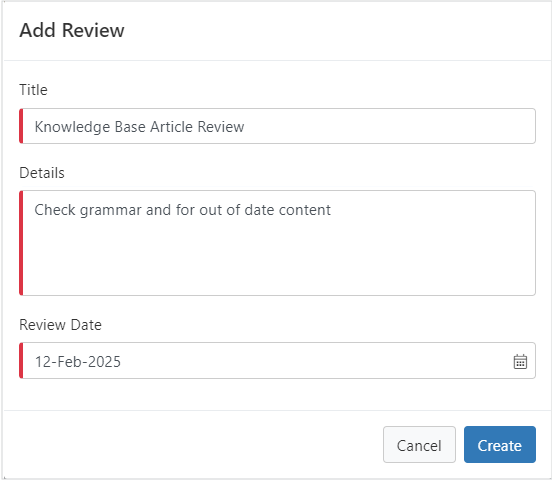
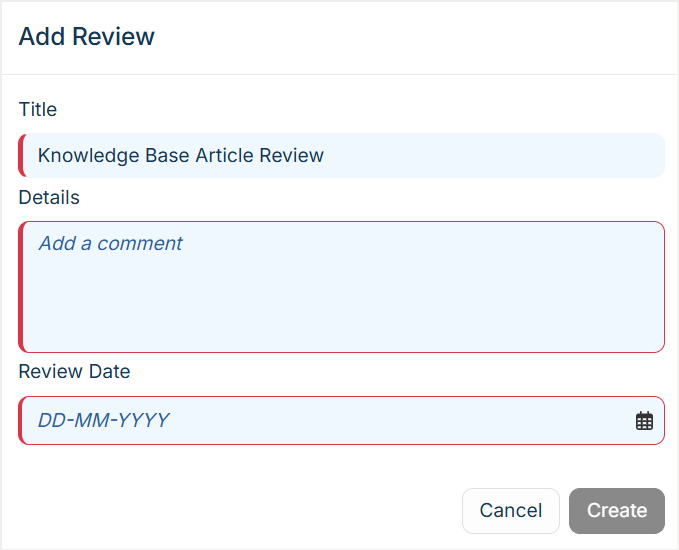
Article Review page
* Updated images.
* Grammar corrections.

diff --git a/servicemanager-user-guide/knowledge/knowledge-bases/articles/reviews.md b/servicemanager-user-guide/knowledge/knowledge-bases/articles/reviews.md
@@ -1,6 +1,6 @@
 # Reviews
 
-Reviews provide a way for knowledge base managers and contributors to schedule activities on each article. These can be used as simple reminders to visit an article to check if it is still valid, if any updates are needed, or to check the [statistics and feedback](/servicemanager-user-guide/knowledge/knowledge-bases/articles/statistics) on the article to understand how effective the article has been.
+Reviews provide a way for knowledge base managers and contributors to schedule activities on each article. These can be used as simple reminders to visit an article to check if it is still valid, if any updates are needed, or to check the [statistics and feedback](/servicemanager-user-guide/knowledge/knowledge-bases/articles/statistics) on the article to understand how effective it has been.
 
 ![Article Reviews](/_books/servicemanager-user-guide/knowledge/images/review-list.png)
 
@@ -15,12 +15,12 @@ Reviews provide a way for knowledge base managers and contributors to schedule a
     ![Add Review](/_books/servicemanager-user-guide/knowledge/images/add-review.png)
 
 :::tip
-The review is scheduled as an all-day activity on the chosen date.  Once created, the activity can be edited to select a specific time on that date.
+The review is scheduled as an all-day activity on the chosen date. Once created, the activity can be edited to select a specific time on that date.
 :::
 
 ## Viewing reviews
 
-Once a review has been added to an article, it is added to the Review List for that article.  You will likely want to also view this alongside your other activities. The review activities can also be seen in the My Activities pop-out panel and the My Activities view.
+Once a review has been added to an article, it is added to the Review List for that article. You will likely also want to view this alongside your other activities. The review activities can also be seen in the My Activities pop-out panel and the My Activities view.
 
 ### My Activities pop-out panel
 
@@ -32,11 +32,11 @@ Using activities for reviews provides a way to manage your work along with other
 
 ### My Activities
 
-The My Activities view is a central location for all your activities.  This includes your Knowledge reviews.
+The My Activities view is a central location for all your activities. This includes your Knowledge reviews.
 
 **To access My Activities:**
 
-1. From the left-hand vertical menu bar select **Home**.
+1. From the left-hand vertical menu bar, select **Home**.
 2. From the Home menu, select **My Activities**.
 
 Once in My Activities, you can use the filters to help locate your reviews.  
